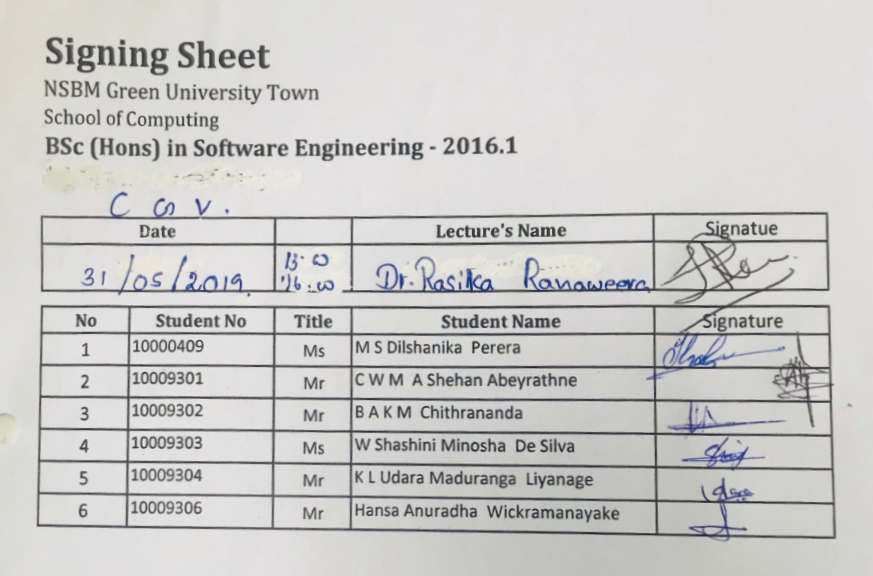
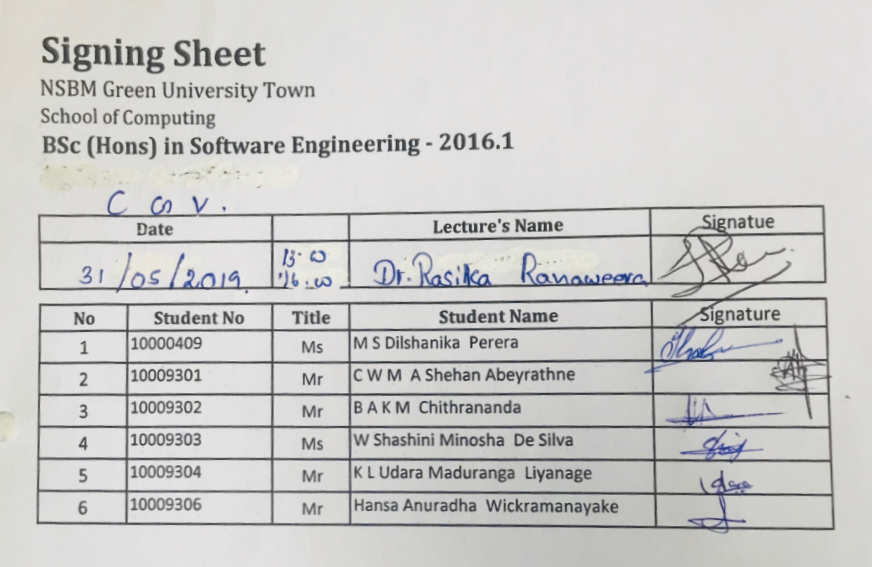
add images sign table aligment correction function

diff --git a/src/image_loader.py b/src/image_loader.py
@@ -171,11 +171,7 @@ def crop_sheet(image):
 
 
 def _ink_mask(gray):
-    """Binary mask of genuine dark ink, robust to shadows/uneven lighting.
 
-    Dividing by a heavily blurred copy flattens the illumination gradient, so
-    smooth shadows and paper texture fall away and only real strokes remain.
-    """
     background = cv2.GaussianBlur(gray, (0, 0), 25)
     normalized = cv2.divide(gray, background, scale=255)
     return cv2.threshold(normalized, 0, 255,
@@ -183,7 +179,7 @@ def _ink_mask(gray):
 
 
 def _estimate_skew_angle(gray):
-    """Angle (degrees) the table lines are tilted from horizontal."""
+
     thresh = _ink_mask(gray)
     width = gray.shape[1]
     h_kernel = cv2.getStructuringElement(
@@ -206,7 +202,7 @@ def _estimate_skew_angle(gray):
 
 
 def deskew_image(image):
-    """Rotate so the table's ruled lines become horizontal/vertical."""
+
     _validate_image(image)
     gray = cv2.cvtColor(image, cv2.COLOR_BGR2GRAY) if image.ndim == 3 else image
     angle = _estimate_skew_angle(gray)
@@ -215,8 +211,124 @@ def deskew_image(image):
     return rotate_image(image, angle)
 
 
+def _detect_table_quad(gray):
+    """Four corners of the ruled table, found from its grid lines."""
+    mask = _ink_mask(gray)
+    height, width = gray.shape
+
+    h_kernel = cv2.getStructuringElement(
+        cv2.MORPH_RECT, (max(20, width // 25), 1))
+    v_kernel = cv2.getStructuringElement(
+        cv2.MORPH_RECT, (1, max(20, height // 25)))
+    horizontal = cv2.morphologyEx(mask, cv2.MORPH_OPEN, h_kernel)
+    vertical = cv2.morphologyEx(mask, cv2.MORPH_OPEN, v_kernel)
+
+    grid = cv2.bitwise_or(horizontal, vertical)
+    grid = cv2.dilate(
+        grid, cv2.getStructuringElement(cv2.MORPH_RECT, (7, 7)))
+
+    contours, _ = cv2.findContours(
+        grid, cv2.RETR_EXTERNAL, cv2.CHAIN_APPROX_SIMPLE)
+    if not contours:
+        return None
+
+    largest = max(contours, key=cv2.contourArea)
+    if cv2.contourArea(largest) < 0.05 * height * width:
+        return None
+    quad = _contour_to_quad(largest)
+    return _order_corners(np.asarray(quad, dtype=np.float32))
+
+
+def _align_verticals(image):
+    """Shear so the table's column lines become exactly vertical.
+
+    A rectangle-fitting homography can leave a slight shear (verticals tilted
+    while horizontals are level). A horizontal shear removes it: it slides
+    each row sideways in proportion to its height, so vertical strokes stand
+    upright and horizontal strokes are untouched.
+    """
+    gray = cv2.cvtColor(image, cv2.COLOR_BGR2GRAY) if image.ndim == 3 else image
+    height, width = gray.shape
+
+    mask = _ink_mask(gray)
+    v_kernel = cv2.getStructuringElement(
+        cv2.MORPH_RECT, (1, max(20, height // 25)))
+    vertical = cv2.morphologyEx(mask, cv2.MORPH_OPEN, v_kernel)
+
+    lines = cv2.HoughLinesP(vertical, 1, np.pi / 180, 80,
+                            minLineLength=height // 8, maxLineGap=15)
+    if lines is None:
+        return image
+
+    ratios = []
+    for x1, y1, x2, y2 in lines.reshape(-1, 4):
+        dx, dy = float(x2 - x1), float(y2 - y1)
+        if dy < 0:
+            dx, dy = -dx, -dy
+        if dy > 2 * abs(dx) and dy > 0:  # near-vertical only
+            ratios.append(dx / dy)
+    if not ratios:
+        return image
+
+    shear = -float(np.median(ratios))
+    if abs(shear) < 0.002:
+        return image
+
+    matrix = np.array([[1, shear, 0], [0, 1, 0]], dtype=np.float32)
+    shift = -min(0.0, shear * height)  # keep all x >= 0 after the shear
+    matrix[0, 2] = shift
+    new_width = int(round(width + abs(shear) * height))
+    return cv2.warpAffine(image, matrix, (new_width, height),
+                          borderValue=(255, 255, 255))
+
+
+def rectify_by_table(image):
+    """Warp the page so the detected table is exactly axis-aligned.
+
+    Unlike a plain rotation, mapping the table's four corners onto an
+    upright rectangle also removes residual perspective, so every ruled
+    line becomes perfectly horizontal or vertical. The homography is applied
+    to the whole page (on an enlarged canvas) so the title text is preserved.
+    """
+    _validate_image(image)
+    gray = cv2.cvtColor(image, cv2.COLOR_BGR2GRAY) if image.ndim == 3 else image
+
+    quad = _detect_table_quad(gray)
+    if quad is None:
+        return deskew_image(image)
+
+    top_left, top_right, bottom_right, bottom_left = quad
+    width = max(np.linalg.norm(top_right - top_left),
+                np.linalg.norm(bottom_right - bottom_left))
+    height = max(np.linalg.norm(bottom_left - top_left),
+                 np.linalg.norm(bottom_right - top_right))
+    if width < 1 or height < 1:
+        return deskew_image(image)
+
+    destination = np.array([[0, 0], [width - 1, 0],
+                            [width - 1, height - 1], [0, height - 1]],
+                           dtype=np.float32)
+    matrix = cv2.getPerspectiveTransform(quad, destination)
+
+    # Grow the output canvas so nothing outside the table (e.g. the title)
+    # is clipped after the warp.
+    img_h, img_w = image.shape[:2]
+    img_corners = np.array([[0, 0], [img_w, 0], [img_w, img_h], [0, img_h]],
+                           dtype=np.float32).reshape(-1, 1, 2)
+    warped = cv2.perspectiveTransform(img_corners, matrix).reshape(-1, 2)
+    x_min, y_min = np.floor(warped.min(axis=0)).astype(int)
+    x_max, y_max = np.ceil(warped.max(axis=0)).astype(int)
+
+    offset = np.array([[1, 0, -x_min], [0, 1, -y_min], [0, 0, 1]],
+                      dtype=np.float32)
+    out_w = int(min(x_max - x_min, img_w * 3))
+    out_h = int(min(y_max - y_min, img_h * 3))
+    return cv2.warpPerspective(image, offset @ matrix, (out_w, out_h),
+                               borderValue=(255, 255, 255))
+
+
 def crop_to_content(image, margin=20):
-    """Crop to the main written block (title + table), dropping blank paper."""
+
     _validate_image(image)
     gray = cv2.cvtColor(image, cv2.COLOR_BGR2GRAY) if image.ndim == 3 else image
 
@@ -264,10 +376,18 @@ def process_sheet_image(path):
     cv2.polylines(boundary_preview, [
                   corners.astype(np.int32)], True, (0, 255, 0), 3)
 
-    print("[4/4] Correcting perspective, deskewing and cropping to content")
+    print("[4/4] Correcting perspective, aligning table and cropping to content")
     corrected = correct_perspective(image, corners)
-    corrected = deskew_image(corrected)
+    corrected = rectify_by_table(corrected)
     corrected = crop_to_content(corrected)
+    # With the table now filling the frame, straighten the columns. A single
+    # median shear may leave a fraction of a degree, so repeat until it
+    # converges, trimming the white wedges the shear leaves behind each time.
+    for _ in range(3):
+        straightened = _align_verticals(corrected)
+        if straightened is corrected:  # shear below threshold: already vertical
+            break
+        corrected = crop_to_content(straightened)
 
     cv2.imwrite(os.path.join(OUTPUT_DIR_original_images,
                 f"{name}_original.png"), image)
